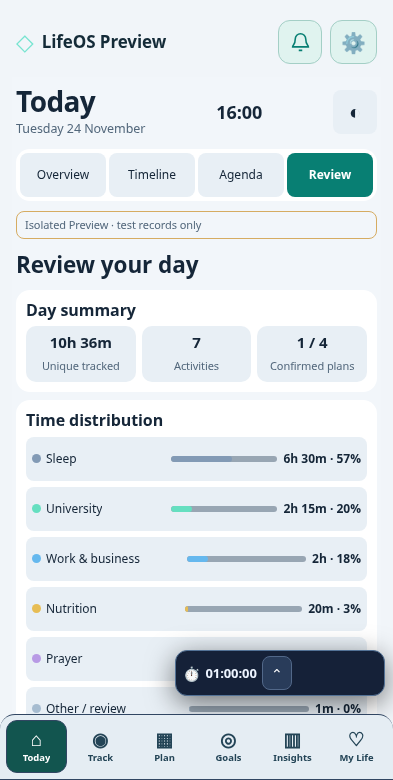
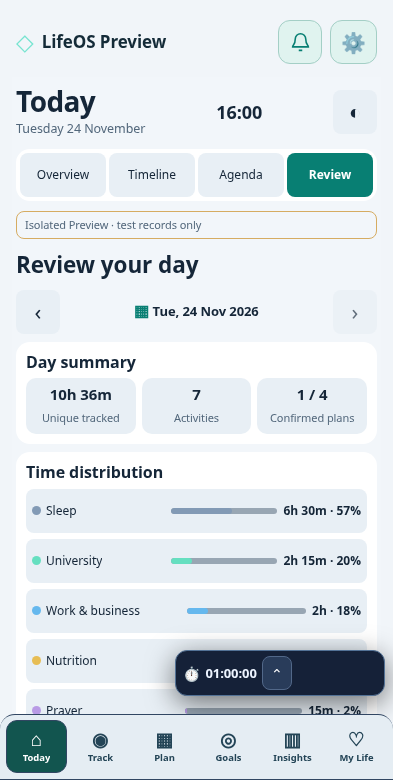
Add historical local-day review to Today

diff --git a/index.html b/index.html
@@ -5809,7 +5809,7 @@ function render(force=false){
  snapshot=d;note.hidden=location.hostname!=='lifeos-today-aplus-preview.onrender.com';if(!note.hidden){note.textContent='Isolated Preview · test records only';if(!d.recorded.length&&!d.active.length&&!d.plans.length&&!d.todos.length){const b=document.createElement('button');b.textContent='Load synthetic test records';b.onclick=()=>{if(confirm('Add synthetic records to this empty Preview?')&&window.lifeosSeedTodayPreview())render(true)};note.append(' ',b)}}root.dataset.apDataMode='live';
  if(timelineDayAt!==null&&timelineDayAt>=d.start)timelineDayAt=null;
  document.getElementById('apDate').textContent=new Date(d.at).toLocaleDateString('en-GB',{weekday:'long',day:'numeric',month:'long'});document.getElementById('apClock').textContent=clock(d.at);
- const raw=d.metrics, m=raw,p=pct(raw.unique,raw.dayLength),q=pct(raw.unique,raw.elapsed),elapsed=pct(raw.elapsed,raw.dayLength),active=d.active,first=active[0],future=d.plans.filter(x=>x.startAt>d.at&&x.status==='planned'&&!x.sessionId),next=future[0],tasks=d.todos.filter(x=>!x.done).sort((a,b)=>(b.priority==='high')-(a.priority==='high')||String(a.due||'9999').localeCompare(String(b.due||'9999'))),longest=d.gaps.reduce((a,b)=>!a||b.b-b.a>a.b-a.a?b:a,null),long=d.gaps.filter(g=>g.b-g.a>=45*60000),earlier=d.plans.filter(x=>x.endAt<=d.at&&x.endAt>d.start&&!['completed','finished','cancelled'].includes(x.status)&&!x.sessionId);
+ const raw=d.metrics, m=raw,p=pct(raw.unique,raw.dayLength),q=pct(raw.unique,raw.elapsed),elapsed=pct(raw.elapsed,raw.dayLength),active=d.active,first=active[0],future=d.plans.filter(x=>x.startAt>d.at&&x.status==='planned'&&!x.sessionId),next=future[0],tasks=d.todos.filter(x=>!x.done).sort((a,b)=>(b.priority==='high')-(a.priority==='high')||String(a.due||'9999').localeCompare(String(b.due||'9999'))),longest=d.gaps.reduce((a,b)=>!a||b.b-b.a>a.b-a.a?b:a,null),earlier=d.plans.filter(x=>x.endAt<=d.at&&x.endAt>d.start&&!['completed','finished','cancelled'].includes(x.status)&&!x.sessionId);
  const timelineSnapshot=timelineDayAt!==null?window.lifeosTodayAPlusSnapshot(Date.now(),timelineDayAt):d;
  const habits=window.lifeosSocialHabitBridge?.read?.()||{};
  const sig=JSON.stringify([d.recorded.map(x=>[x.id,x.name,x.category,x.status,x.a,Math.floor(x.b/60000)]),timelineDayAt!==null?timelineSnapshot.recorded.map(x=>[x.id,x.name,x.category,x.status,x.a,x.b]):null,d.plans,d.todos,habits.habitDefinitions,habits.habitChecks,active.map(x=>[x.id,x.status]),Math.floor(d.at/60000),period,timelineDayAt,part,day,selected,free]);
@@ -5822,8 +5822,7 @@ function render(force=false){
  const nowCard=card('Current activity',first?'<div class="ap-v1-live-row"><span class="ap-v1-live-icon" aria-hidden="true">◷</span><div><strong>'+esc(first.name)+'</strong><small>Started '+clock(first.startAt)+' · '+(first.status==='paused'?'Paused':'Running')+'</small></div><b class="ap-v1-live-clock">'+liveClock(first)+'</b></div>'+grid([action(first.status==='paused'?'Resume':'Pause',first.status==='paused'?'resume':'pause',first.id),action('Finish','finish',first.id),action('Focus','focus',first.id)])+nav(active.length>1?'All '+active.length+' timers':'View timer','tracking')+active.slice(1).map(a=>row(esc(a.name),liveClock(a))).join(''):item('Ready for your next activity?','No timer is running')+nav('Start activity','tracking'),'ap-now');
  const dayDate=new Date(d.start),boundary=hour=>hour===24?d.end:new Date(dayDate.getFullYear(),dayDate.getMonth(),dayDate.getDate(),hour).getTime();
  const parts=[[6,12],[12,18],[18,24],[0,6]],partRows=parts.map(([a,b])=>d.recorded.filter(x=>x.a<boundary(b)&&x.b>boundary(a)));
- const todayKey=new Date(d.at).toLocaleDateString('sv-SE');const task=t=>'<button type="button" class="ap-item ap-v250-item" data-ap-live-task="'+esc(t.id)+'"><strong>'+esc(t.name)+'</strong><small>'+esc([t.due&&String(t.due).slice(0,10)<todayKey?'OVERDUE':null,t.priority,t.due||'Flexible'].filter(Boolean).join(' · '))+'</small></button>';const detail=(label,kind,id,at)=>'<button type="button" class="ap-item ap-v250-item" data-ap-detail="'+kind+'" data-ap-key="'+esc(id)+'" data-ap-at="'+(at??'')+'">'+label+'</button>';const activity=x=>detail('<strong>'+esc(x.name)+'</strong><small>'+clock(x.a)+'–'+clock(x.b)+' · '+dur(x.b-x.a)+' · '+esc(x.category)+'</small>','record',x.id,x.a);const gapItem=g=>'<div class="ap-v250-gap">'+item(clock(g.a)+'–'+clock(g.b),dur(g.b-g.a)+' · Unknown')+action('Log activity','gap',g.a+':'+g.b)+'</div>';const pairs=[];for(let i=0;i<d.recorded.length;i++)for(let j=i+1;j<d.recorded.length;j++){const x=d.recorded[i],y=d.recorded[j],ms=Math.min(x.b,y.b)-Math.max(x.a,y.a);if(ms>=60000&&String(x.id)!==String(y.id))pairs.push({x,y,ms})}
- const intelligence=longest?long.length+' longer unlogged interval'+(long.length===1?'':'s')+' · Longest '+clock(longest.a)+'–'+clock(longest.b):'No unlogged intervals detected';
+ const todayKey=new Date(d.at).toLocaleDateString('sv-SE');const task=t=>'<button type="button" class="ap-item ap-v250-item" data-ap-live-task="'+esc(t.id)+'"><strong>'+esc(t.name)+'</strong><small>'+esc([t.due&&String(t.due).slice(0,10)<todayKey?'OVERDUE':null,t.priority,t.due||'Flexible'].filter(Boolean).join(' · '))+'</small></button>';const detail=(label,kind,id,at)=>'<button type="button" class="ap-item ap-v250-item" data-ap-detail="'+kind+'" data-ap-key="'+esc(id)+'" data-ap-at="'+(at??'')+'">'+label+'</button>';const activity=x=>detail('<strong>'+esc(x.name)+'</strong><small>'+clock(x.a)+'–'+clock(x.b)+' · '+dur(x.b-x.a)+' · '+esc(x.category)+'</small>','record',x.id,x.a);const gapItem=g=>'<div class="ap-v250-gap">'+item(clock(g.a)+'–'+clock(g.b),dur(g.b-g.a)+' · Unknown')+action('Log activity','gap',g.a+':'+g.b)+'</div>';
  const todayTasks=d.todos.filter(t=>String(t.due||'').slice(0,10)===todayKey),doneTasks=todayTasks.filter(t=>t.done).length,overdueTasks=tasks.filter(t=>t.due&&String(t.due).slice(0,10)<todayKey),otherOpenTasks=tasks.filter(t=>!t.due||String(t.due).slice(0,10)>todayKey);
  const todayPlans=d.plans.filter(x=>x.startAt<d.end&&x.endAt>d.start&&!['cancelled','skipped'].includes(x.status));
  const confirmedPlans=todayPlans.filter(x=>['completed','finished'].includes(x.status)||(x.sessionId&&d.recorded.some(s=>String(s.id)===String(x.sessionId)&&s.status==='finished'))).length;
@@ -5846,10 +5845,6 @@ function render(force=false){
  const dueHabits=(habits.habitDefinitions||[]).filter(h=>{const begin=h.startDate||(h.createdAt?new Date(h.createdAt).toLocaleDateString('sv-SE'):todayKey),diff=Math.round((todayNoon-atNoon(begin))/86400000),every=Number(h.everyDays)||1;return Number.isFinite(diff)&&diff>=0&&every>0&&diff%every===0});
  const habitRows=dueHabits.slice(0,3).map(h=>{const check=(habits.habitChecks||[]).find(c=>String(c.habitId)===String(h.id)&&c.date===todayKey),title=h.title||'Habit';return '<div class="ap-v1-agenda-task"><label><input type="checkbox" data-ap-live-habit="'+esc(h.id)+'" data-ap-habit-day="'+todayKey+'" data-ap-habit-revision="'+esc(JSON.stringify(check||null))+'" '+(check?.done?'checked':'')+' aria-label="'+(check?.done?'Undo completion of ':'Complete ')+esc(title)+'"><span class="'+(check?.done?'ap-v1-done':'')+'">'+esc(title)+'</span></label><button type="button" data-ap-live-quick="habits" aria-label="Review '+esc(title)+'">›</button></div>'}).join('');
  const agendaHabits=card('Habits today',row('Completed',dueHabits.filter(h=>habitChecks.has(String(h.id))).length+' / '+dueHabits.length)+(habitRows||item('No habits scheduled today',''))+'<p id="apHabitMessage" class="ap-v1-habit-message" role="status">'+esc(habitMessage)+'</p><button class="ap-link" type="button" data-ap-live-quick="habits">'+(dueHabits.length>3?'View all habits':'Open habits')+' →</button>');
- const activityCount=new Set(d.recorded.map(x=>String(x.id))).size;
- const reviewSummary=card('Day summary',grid([metric(dur(m.unique),'Unique tracked'),metric(String(activityCount),'Activities'),metric(todayPlans.length?confirmedPlans+' / '+todayPlans.length:'—','Confirmed plans')]));
- const reviewCategory=c=>{const color=colors[c.name]||'#a6bcd0',share=Math.round(c.durationMs/m.total*100),label=c.name+' · '+dur(c.durationMs)+' · '+share+'%';return '<button type="button" class="ap-v1-review-category" data-ap-live-reviewcat="'+esc(c.name)+'" aria-label="'+esc(label)+'"><span class="ap-v1-review-label" title="'+esc(c.name)+'"><i style="background:'+color+'"></i><span>'+esc(c.name)+'</span></span><span class="ap-v1-review-track" aria-hidden="true"><i style="width:'+(c.durationMs/m.total*100)+'%;background:'+color+'"></i></span><strong>'+dur(c.durationMs)+' · '+share+'%</strong></button>'};
- const reviewDistribution=card('Time distribution',(d.categories.slice(0,6).map(reviewCategory).join('')||item('No recorded activities',''))+(d.categories.length>6?'<details><summary>Show '+(d.categories.length-6)+' more categories</summary>'+d.categories.slice(6).map(reviewCategory).join('')+'</details>':''));
  set(0,'<div class="ap-v1-pair">'+card('Day progress','<div class="ap-v1-day-summary">'+dayRing+'<div>'+metric(dur(m.elapsed),'Elapsed')+metric(dur(m.remaining),'Remaining')+'</div></div>')+glance+'</div><div class="ap-v1-current">'+nowCard+'</div><div class="ap-v1-pair">'+progress+distribution+'</div><div class="ap-v1-pair">'+lifeAreas+dailyIntel+'</div>'+quick+card('Your day, in four parts',grid(['Morning','Afternoon','Evening','Night'].map((n,i)=>'<button data-ap-live-part="'+i+'" class="'+(i===part?'ap-selected':'')+'"><span class="ap-part-icon">'+['☀','◐','☾','✦'][i]+'</span><strong>'+partRows[i].length+'</strong><small>'+n+'</small></button>'),'ap-four')+ (partRows[part].map(activity).join('')||item('No recorded activities','')))+card('Next on your agenda',future.slice(0,2).map(x=>row(esc(x.name),clock(x.startAt))).join('')||item('No upcoming commitments',''))+card('Your priorities',(tasks[0]?task(tasks[0]):item('No open tasks',''))+link('View tasks',2)));
  {
  const d=timelineSnapshot,m=d.metrics,p=pct(m.unique,m.dayLength),q=pct(m.unique,m.elapsed),active=d.active,first=active[0],next=timelineDayAt!==null?null:future[0],longest=d.gaps.reduce((a,b)=>!a||b.b-b.a>a.b-a.a?b:a,null);
@@ -5891,11 +5886,27 @@ function render(force=false){
  for(const x of list){if(free&&day===0&&x.startAt>cursor)journeyHtml+=journey('',dur(x.startAt-cursor)+' '+'unscheduled time',clock(cursor)+'–'+clock(x.startAt),true);journeyHtml+='<div class="ap-journey"><small>'+clock(x.startAt)+'</small>'+detail('<strong>'+esc(x.name)+'</strong><small>'+clock(x.startAt)+'–'+clock(x.endAt)+(x.startAt<cursor?' · Overlapping commitment':'')+'</small>','plan',x.id,x.startAt)+'</div>';cursor=Math.max(cursor,x.endAt)}
  if(free&&day===0&&cursor<d.end)journeyHtml+=journey('',dur(d.end-cursor)+' '+'unscheduled time',clock(cursor)+'–00:00',true);
  set(2,card('<span class="ap-kicker">NEXT UP</span>',next?'<h2>'+esc(next.name)+'</h2><small>'+clock(next.startAt)+'–'+clock(next.endAt)+' · In '+dur(next.startAt-d.at)+'</small>'+grid([action('Start now','start-plan',next.id),action('Remind me','reminder',next.id)],'ap-two'):item('No upcoming commitments',''),'ap-now')+agendaTasks+agendaHabits+card('Your upcoming journey','<label><input type="checkbox" data-ap-live-free '+(free?'checked':'')+'> Show unscheduled windows</label>'+grid(['Today','Tomorrow','Upcoming'].map((x,i)=>'<button data-ap-live-day="'+i+'" class="'+(day===i?'ap-selected':'')+'" aria-pressed="'+(day===i)+'">'+x+'</button>'))+(journeyHtml||item('No commitments',''))+nav('Open full calendar','schedule'))+card('Needs your attention',(overdueTasks[0]?task(overdueTasks[0]):item('No overdue tasks',''))+'<details><summary>Show '+Math.max(0,overdueTasks.length-1)+' more overdue tasks</summary>'+overdueTasks.slice(1).map(task).join('')+'</details><details><summary>Show '+otherOpenTasks.length+' other open tasks</summary>'+otherOpenTasks.map(task).join('')+'</details><details><summary>Earlier commitments · '+earlier.length+'</summary>'+earlier.map(x=>detail('<strong>'+esc(x.name)+'</strong><small>Unverified · '+clock(x.startAt)+'</small>','plan',x.id,x.startAt)).join('')+'</details>'));
- set(3,'<h2>Review your day</h2>'+reviewSummary+reviewDistribution+card('Daily intelligence','<small>'+intelligence+'</small>'+(longest?action('Log longest interval','gap',longest.a+':'+longest.b):''),'ap-now')+card('Recording completeness','<div class="ap-row"><svg style="width:124px" viewBox="0 0 130 130"><circle cx="65" cy="65" r="49" fill="none" stroke="#d6ac62" stroke-width="12"/><circle cx="65" cy="65" r="49" fill="none" stroke="var(--ap-accent)" stroke-width="12" pathLength="100" stroke-dasharray="'+q+' '+(100-q)+'" transform="rotate(-90 65 65)"/><text x="65" y="65" text-anchor="middle" font-size="29" fill="currentColor">'+q+'%</text><text x="65" y="82" text-anchor="middle" font-size="10" fill="currentColor">Elapsed day</text></svg><div class="ap-review-metrics">'+metric(dur(m.unique),'Unique tracked')+metric(dur(m.unlogged),'Unlogged')+'</div></div>'+row('Full local day recorded',p+'%')+'<div class="ap-bar"><i style="width:'+p+'%"></i></div>')+card('Unlogged intervals',long.map(gapItem).join('')+'<details><summary>Show '+(d.gaps.length-long.length)+' shorter intervals</summary>'+d.gaps.filter(g=>g.b-g.a<45*60000).map(gapItem).join('')+'</details><small>Unlogged time is unknown, not automatically wasted.</small>')+card('Needs your attention',item('Overlapping activities',dur(m.overlap)+' additional recorded time')+pairs.slice(0,1).map(z=>'<div class="ap-v250-overlap"><small>'+dur(z.ms)+' concurrent</small>'+activity(z.x)+activity(z.y)+'</div>').join('')+(pairs.length>1?'<details><summary>Show '+(pairs.length-1)+' more overlaps</summary>'+pairs.slice(1).map(z=>'<div class="ap-v250-overlap"><small>'+dur(z.ms)+' concurrent</small>'+activity(z.x)+activity(z.y)+'</div>').join('')+'</details>':'')+link('Review concurrent sessions',1)+item('Earlier commitments',earlier.length+' potentially unconfirmed')+link('Review commitments',2))+card('Improve tomorrow',item('Recording opportunity',longest?dur(m.unlogged)+' unclassified across '+d.gaps.length+' intervals; '+long.length+' at least 45 minutes.':'No missing interval detected.')+(pairs.length?item('Concurrent activity insight',esc(pairs[0].x.name)+' and '+esc(pairs[0].y.name)+' overlapped for '+dur(pairs[0].ms)+'. Confirm whether intentional.'):'')+item('Planning opportunity',earlier.length?earlier.length+' earlier commitments need confirmation.':'Insufficient confirmed plan-to-actual matches for a scheduling assessment.'))+card('Explore further','<div class="ap-v250-shortcuts">'+nav('Activity averages','analytics')+nav('Duration limits','analytics')+nav('Plan vs. reality','analytics')+nav('Activity classification','analytics')+'</div>'));
+ {
+ const d=timelineSnapshot,m=d.metrics,p=pct(m.unique,m.dayLength),q=pct(m.unique,m.elapsed);
+ const longest=d.gaps.reduce((a,b)=>!a||b.b-b.a>a.b-a.a?b:a,null),long=d.gaps.filter(g=>g.b-g.a>=45*60000);
+ const earlier=d.plans.filter(x=>x.endAt<=d.at&&x.endAt>d.start&&!['completed','finished','cancelled'].includes(x.status)&&!x.sessionId);
+ const todayPlans=d.plans.filter(x=>x.startAt<d.end&&x.endAt>d.start&&!['cancelled','skipped'].includes(x.status));
+ const confirmedPlans=todayPlans.filter(x=>['completed','finished'].includes(x.status)||(x.sessionId&&d.recorded.some(s=>String(s.id)===String(x.sessionId)&&s.status==='finished'))).length;
+ const pairs=[];for(let i=0;i<d.recorded.length;i++)for(let j=i+1;j<d.recorded.length;j++){const x=d.recorded[i],y=d.recorded[j],ms=Math.min(x.b,y.b)-Math.max(x.a,y.a);if(ms>=60000&&String(x.id)!==String(y.id))pairs.push({x,y,ms})}
+ const intelligence=longest?long.length+' longer unlogged interval'+(long.length===1?'':'s')+' · Longest '+clock(longest.a)+'–'+clock(longest.b):'No unlogged intervals detected';
+ const activityCount=new Set(d.recorded.map(x=>String(x.id))).size;
+ const reviewSummary=card('Day summary',grid([metric(dur(m.unique),'Unique tracked'),metric(String(activityCount),'Activities'),metric(todayPlans.length?confirmedPlans+' / '+todayPlans.length:'—','Confirmed plans')]));
+ const reviewCategory=c=>{const color=colors[c.name]||'#a6bcd0',share=Math.round(c.durationMs/m.total*100),label=c.name+' · '+dur(c.durationMs)+' · '+share+'%';return '<button type="button" class="ap-v1-review-category" data-ap-live-reviewcat="'+esc(c.name)+'" aria-label="'+esc(label)+'"><span class="ap-v1-review-label" title="'+esc(c.name)+'"><i style="background:'+color+'"></i><span>'+esc(c.name)+'</span></span><span class="ap-v1-review-track" aria-hidden="true"><i style="width:'+(c.durationMs/m.total*100)+'%;background:'+color+'"></i></span><strong>'+dur(c.durationMs)+' · '+share+'%</strong></button>'};
+ const reviewDistribution=card('Time distribution',(d.categories.slice(0,6).map(reviewCategory).join('')||item('No recorded activities',''))+(d.categories.length>6?'<details><summary>Show '+(d.categories.length-6)+' more categories</summary>'+d.categories.slice(6).map(reviewCategory).join('')+'</details>':''));
+ const reviewCommitment=x=>detail('<strong>'+esc(x.name)+'</strong><small>Unverified · '+clock(x.startAt)+'–'+clock(x.endAt)+'</small>','plan',x.id,x.startAt);
+ const reviewCommitments=earlier.slice(0,2).map(reviewCommitment).join('')+(earlier.length>2?'<details><summary>Show '+(earlier.length-2)+' more commitments</summary>'+earlier.slice(2).map(reviewCommitment).join('')+'</details>':'');
+ const reviewDate='<div class="ap-v1-review-date"><button type="button" data-ap-review-shift="-1" aria-label="Previous review day">‹</button><div class="ap-v1-date-select"><strong aria-hidden="true"><span class="ap-v1-date-icon">▦</span> '+esc(new Date(d.start).toLocaleDateString('en-GB',{weekday:'short',day:'numeric',month:'short',year:'numeric'}))+'</strong><input type="date" data-ap-review-date aria-label="Choose review date" value="'+new Date(d.start).toLocaleDateString('sv-SE')+'" max="'+todayKey+'"></div><button type="button" data-ap-review-shift="1" aria-label="Next review day" '+(timelineDayAt===null?'disabled':'')+'>›</button></div>';
+ set(3,'<h2>Review your day</h2>'+reviewDate+reviewSummary+reviewDistribution+card('Daily intelligence','<small>'+intelligence+'</small>'+(longest?action('Log longest interval','gap',longest.a+':'+longest.b):''),'ap-now')+card('Recording completeness','<div class="ap-row"><svg style="width:124px" viewBox="0 0 130 130"><circle cx="65" cy="65" r="49" fill="none" stroke="#d6ac62" stroke-width="12"/><circle cx="65" cy="65" r="49" fill="none" stroke="var(--ap-accent)" stroke-width="12" pathLength="100" stroke-dasharray="'+q+' '+(100-q)+'" transform="rotate(-90 65 65)"/><text x="65" y="65" text-anchor="middle" font-size="29" fill="currentColor">'+q+'%</text><text x="65" y="82" text-anchor="middle" font-size="10" fill="currentColor">Elapsed day</text></svg><div class="ap-review-metrics">'+metric(dur(m.unique),'Unique tracked')+metric(dur(m.unlogged),'Unlogged')+'</div></div>'+row('Full local day recorded',p+'%')+'<div class="ap-bar"><i style="width:'+p+'%"></i></div>')+card('Unlogged intervals',long.map(gapItem).join('')+'<details><summary>Show '+(d.gaps.length-long.length)+' shorter intervals</summary>'+d.gaps.filter(g=>g.b-g.a<45*60000).map(gapItem).join('')+'</details><small>Unlogged time is unknown, not automatically wasted.</small>')+card('Needs your attention',item('Overlapping activities',dur(m.overlap)+' additional recorded time')+pairs.slice(0,1).map(z=>'<div class="ap-v250-overlap"><small>'+dur(z.ms)+' concurrent</small>'+activity(z.x)+activity(z.y)+'</div>').join('')+(pairs.length>1?'<details><summary>Show '+(pairs.length-1)+' more overlaps</summary>'+pairs.slice(1).map(z=>'<div class="ap-v250-overlap"><small>'+dur(z.ms)+' concurrent</small>'+activity(z.x)+activity(z.y)+'</div>').join('')+'</details>':'')+link('Review concurrent sessions',1)+item('Earlier commitments',earlier.length+' potentially unconfirmed')+reviewCommitments+(timelineDayAt===null?link('Review commitments',2):nav('Open Plan','schedule')))+card(timelineDayAt===null?'Improve tomorrow':'Review insights',item('Recording opportunity',longest?dur(m.unlogged)+' unclassified across '+d.gaps.length+' intervals; '+long.length+' at least 45 minutes.':'No missing interval detected.')+(pairs.length?item('Concurrent activity insight',esc(pairs[0].x.name)+' and '+esc(pairs[0].y.name)+' overlapped for '+dur(pairs[0].ms)+'. Confirm whether intentional.'):'')+item('Planning opportunity',earlier.length?earlier.length+' earlier commitments need confirmation.':'Insufficient confirmed plan-to-actual matches for a scheduling assessment.'))+card('Explore further','<div class="ap-v250-shortcuts">'+nav('Activity averages','analytics')+nav('Duration limits','analytics')+nav('Plan vs. reality','analytics')+nav('Activity classification','analytics')+'</div>'));
+ }
 }
-root.addEventListener('click',e=>{const detail=e.target.closest('[data-ap-detail]');if(detail){window.lifeosTrackOpenTodayItem?.(detail.dataset.apDetail,detail.dataset.apKey,Number(detail.dataset.apAt));return}const b=e.target.closest('button');if(!b)return;const x=b.dataset;if(x.apLiveReviewcat){selected=x.apLiveReviewcat;document.getElementById('apTab1')?.click();render(true);return}if(x.apLiveTask){openTask(x.apLiveTask);return}if(x.apLiveQuick){openQuick(x.apLiveQuick);return}if(x.apLiveAction){if(x.apLiveAction==='unknown')return;if(x.apLiveAction==='focus'){document.querySelector('#lifeosNavigation [data-view="tracking"]')?.click();setTimeout(()=>{const b=document.querySelector('#loTrackConceptA [data-ca-sheet="focus"]');if(b)b.click();else alert('Open Focus Mode from Track Live.');},150);return}if(x.apLiveAction==='finish'&&!confirm('Finish this activity?'))return;if(x.apLiveAction==='start-plan'&&!confirm('Start this planned activity now?'))return;const ok=window.lifeosTodayAPlusAction(x.apLiveAction,x.apLiveId);if(ok===null)return;if(!ok){if(x.apLiveAction==='gap'){let message=b.parentElement.querySelector('.ap-v250-gap-error');if(!message){message=document.createElement('small');message.className='ap-v250-gap-error';message.setAttribute('role','status');b.parentElement.append(message)}message.textContent='This interval changed. Select a remaining gap and try again.';return}alert('Action not saved. Existing records retained.');return}if(x.apLiveAction==='reminder')alert('Scheduled reminder enabled. Delivery depends on device permissions.');render(true);return}if(x.apLiveNav){document.querySelector('#lifeosNavigation [data-view="'+x.apLiveNav+'"]')?.click();return}if(x.apLivePart!==undefined)part=Number(x.apLivePart);else if(x.apLivePeriod!==undefined){if(x.apLivePeriod==='now'){timelineDayAt=null;period=null}else period=Number(x.apLivePeriod)}else if(x.apLiveDate!==undefined){const date=new Date(timelineDayAt??snapshot.start);date.setDate(date.getDate()+Number(x.apLiveDate));timelineDayAt=date.getTime()>=snapshot.start?null:date.getTime();period=null}else if(x.apLiveDay!==undefined)day=Number(x.apLiveDay);else if(x.apLiveCat!==undefined)selected=selected===x.apLiveCat?'':x.apLiveCat;else return;render(true)});
+root.addEventListener('click',e=>{const detail=e.target.closest('[data-ap-detail]');if(detail){window.lifeosTrackOpenTodayItem?.(detail.dataset.apDetail,detail.dataset.apKey,Number(detail.dataset.apAt));return}const b=e.target.closest('button');if(!b)return;const x=b.dataset;if(x.apReviewShift!==undefined){const date=new Date(timelineDayAt??snapshot.start);date.setDate(date.getDate()+Number(x.apReviewShift));timelineDayAt=date.getTime()>=snapshot.start?null:date.getTime();period=null;render(true);return}if(x.apLiveReviewcat){selected=x.apLiveReviewcat;document.getElementById('apTab1')?.click();render(true);return}if(x.apLiveTask){openTask(x.apLiveTask);return}if(x.apLiveQuick){openQuick(x.apLiveQuick);return}if(x.apLiveAction){if(x.apLiveAction==='unknown')return;if(x.apLiveAction==='focus'){document.querySelector('#lifeosNavigation [data-view="tracking"]')?.click();setTimeout(()=>{const b=document.querySelector('#loTrackConceptA [data-ca-sheet="focus"]');if(b)b.click();else alert('Open Focus Mode from Track Live.');},150);return}if(x.apLiveAction==='finish'&&!confirm('Finish this activity?'))return;if(x.apLiveAction==='start-plan'&&!confirm('Start this planned activity now?'))return;const ok=window.lifeosTodayAPlusAction(x.apLiveAction,x.apLiveId);if(ok===null)return;if(!ok){if(x.apLiveAction==='gap'){let message=b.parentElement.querySelector('.ap-v250-gap-error');if(!message){message=document.createElement('small');message.className='ap-v250-gap-error';message.setAttribute('role','status');b.parentElement.append(message)}message.textContent='This interval changed. Select a remaining gap and try again.';return}alert('Action not saved. Existing records retained.');return}if(x.apLiveAction==='reminder')alert('Scheduled reminder enabled. Delivery depends on device permissions.');render(true);return}if(x.apLiveNav){document.querySelector('#lifeosNavigation [data-view="'+x.apLiveNav+'"]')?.click();return}if(x.apLivePart!==undefined)part=Number(x.apLivePart);else if(x.apLivePeriod!==undefined){if(x.apLivePeriod==='now'){timelineDayAt=null;period=null}else period=Number(x.apLivePeriod)}else if(x.apLiveDate!==undefined){const date=new Date(timelineDayAt??snapshot.start);date.setDate(date.getDate()+Number(x.apLiveDate));timelineDayAt=date.getTime()>=snapshot.start?null:date.getTime();period=null}else if(x.apLiveDay!==undefined)day=Number(x.apLiveDay);else if(x.apLiveCat!==undefined)selected=selected===x.apLiveCat?'':x.apLiveCat;else return;render(true)});
 root.addEventListener('keydown',e=>{const target=e.target.closest('svg [data-ap-detail]');if(target&&(e.key==='Enter'||e.key===' ')){e.preventDefault();target.dispatchEvent(new MouseEvent('click',{bubbles:true}))}});
-root.addEventListener('change',e=>{if(e.target.hasAttribute('data-ap-timeline-date')){const value=e.target.value,parts=/^(\d{4})-(\d{2})-(\d{2})$/.exec(value);if(parts){const date=new Date(Number(parts[1]),Number(parts[2])-1,Number(parts[3]));if(date.getFullYear()===Number(parts[1])&&date.getMonth()===Number(parts[2])-1&&date.getDate()===Number(parts[3])&&date.getTime()<=snapshot.start){timelineDayAt=date.getTime()===snapshot.start?null:date.getTime();period=null;render(true);return}}e.target.value=new Date(timelineDayAt??snapshot.start).toLocaleDateString('sv-SE');return}if(e.target.hasAttribute('data-ap-live-free')){free=e.target.checked;render(true);return}if(e.target.hasAttribute('data-ap-live-habit')){const input=e.target;let result;try{result=window.lifeosHabitToggleToday?.(input.dataset.apLiveHabit,input.dataset.apHabitDay,input.dataset.apHabitRevision)}catch{result=null}if(result?.ok){habitMessage='';render(true);return}const current=(window.lifeosSocialHabitBridge?.read?.()?.habitChecks||[]).find(c=>String(c.habitId)===String(input.dataset.apLiveHabit)&&c.date===input.dataset.apHabitDay);input.checked=!!current?.done;input.dataset.apHabitRevision=JSON.stringify(current||null);const message=document.getElementById('apHabitMessage');habitMessage=result?.error||'Habit check is unavailable. No changes were saved.';if(message)message.textContent=habitMessage;return}if(e.target.hasAttribute('data-ap-live-todo')){const input=[...document.querySelectorAll('#todoList [data-todo-act="toggle"]')].find(n=>String(n.dataset.todoId)===String(e.target.dataset.apLiveTodo));if(input){input.checked=e.target.checked;input.dispatchEvent(new Event('change',{bubbles:true}))}render(true)}});
+root.addEventListener('change',e=>{if(e.target.hasAttribute('data-ap-timeline-date')||e.target.hasAttribute('data-ap-review-date')){const value=e.target.value,parts=/^(\d{4})-(\d{2})-(\d{2})$/.exec(value);if(parts){const date=new Date(Number(parts[1]),Number(parts[2])-1,Number(parts[3]));if(date.getFullYear()===Number(parts[1])&&date.getMonth()===Number(parts[2])-1&&date.getDate()===Number(parts[3])&&date.getTime()<=snapshot.start){timelineDayAt=date.getTime()===snapshot.start?null:date.getTime();period=null;render(true);return}}e.target.value=new Date(timelineDayAt??snapshot.start).toLocaleDateString('sv-SE');return}if(e.target.hasAttribute('data-ap-live-free')){free=e.target.checked;render(true);return}if(e.target.hasAttribute('data-ap-live-habit')){const input=e.target;let result;try{result=window.lifeosHabitToggleToday?.(input.dataset.apLiveHabit,input.dataset.apHabitDay,input.dataset.apHabitRevision)}catch{result=null}if(result?.ok){habitMessage='';render(true);return}const current=(window.lifeosSocialHabitBridge?.read?.()?.habitChecks||[]).find(c=>String(c.habitId)===String(input.dataset.apLiveHabit)&&c.date===input.dataset.apHabitDay);input.checked=!!current?.done;input.dataset.apHabitRevision=JSON.stringify(current||null);const message=document.getElementById('apHabitMessage');habitMessage=result?.error||'Habit check is unavailable. No changes were saved.';if(message)message.textContent=habitMessage;return}if(e.target.hasAttribute('data-ap-live-todo')){const input=[...document.querySelectorAll('#todoList [data-todo-act="toggle"]')].find(n=>String(n.dataset.todoId)===String(e.target.dataset.apLiveTodo));if(input){input.checked=e.target.checked;input.dispatchEvent(new Event('change',{bubbles:true}))}render(true)}});
 document.querySelector('#lifeosNavigation [data-view="dashboard"]')?.addEventListener('click',()=>setTimeout(()=>render(true),100));
 setInterval(()=>render(),1000);render();
 })();
@@ -5950,13 +5961,13 @@ body.ap-today #todayAPlus .ap-v1-timeline-now h3{font-size:11px;flex:none}
 body.ap-today #todayAPlus .ap-v1-timeline-now .ap-v250-item{flex:1 1 125px;min-height:44px;padding:5px 8px;gap:1px}
 body.ap-today #todayAPlus .ap-v1-timeline-now .ap-v250-item small{font-size:11px}
 body.ap-today #todayAPlus .ap-v1-timeline-now>.ap-row{width:100%;font-size:12px}
-body.ap-today #todayAPlus .ap-v1-date{display:grid;grid-template-columns:44px minmax(0,1fr) 44px;align-items:center;gap:5px;text-align:center}
-body.ap-today #todayAPlus .ap-v1-date strong{font-size:13px;white-space:nowrap}
+body.ap-today #todayAPlus :is(.ap-v1-date,.ap-v1-review-date){display:grid;grid-template-columns:44px minmax(0,1fr) 44px;align-items:center;gap:5px;text-align:center}
+body.ap-today #todayAPlus :is(.ap-v1-date,.ap-v1-review-date) strong{font-size:13px;white-space:nowrap}
 body.ap-today #todayAPlus .ap-v1-date-select{position:relative;display:grid;place-items:center;min-width:0;min-height:44px}
 body.ap-today #todayAPlus .ap-v1-date-icon{display:inline-block;font-size:16px;line-height:1;color:var(--ap-accent)}
 body.ap-today #todayAPlus .ap-v1-date-select input{position:absolute;inset:0;width:100%;height:44px;opacity:0;cursor:pointer}
 body.ap-today #todayAPlus .ap-v1-date-select:focus-within{outline:2px solid var(--ap-accent);outline-offset:2px;border-radius:8px}
-body.ap-today #todayAPlus .ap-v1-date button{font-size:22px}
+body.ap-today #todayAPlus :is(.ap-v1-date,.ap-v1-review-date) button{font-size:22px}
 body.ap-today #todayAPlus .ap-v1-period{grid-template-columns:repeat(5,minmax(0,1fr))}
 body.ap-today #todayAPlus .ap-v1-period button{min-height:44px;font-size:11px;padding:3px 0}
 body.ap-today #todayAPlus .ap-v1-agenda-task{display:flex;align-items:center;gap:4px;border-bottom:1px solid #52657a44}

diff --git a/docs/design/today/COMPARISON.md b/docs/design/today/COMPARISON.md
@@ -7,7 +7,7 @@ The supplied design screenshots are targets, with illustrative numbers. Current 
 | Overview | [Individual overview](reference/Overview.png) | [Viewport](current/release-overview.png) · [Full page](current/release-overview-full.png) · [Light](current/release-overview-light.png) | Paired day progress and glance cards, live controls, plan progress, distribution and quick actions are present. Life-area rows use saved activity, habit and routine evidence. The reference uses more compact controls and more iconography; scores with no defined evidence source are not invented. Extra bottom clearance is provided for the floating timer, which can still cover content while scrolling. |
 | Timeline | [Individual timeline](reference/Timeline.png) | [Viewport](current/release-timeline.png) · [Full page](current/release-timeline-full.png) · [Previous day](current/release-timeline-previous-day.png) | Category colors, proportional lanes, six-hour selector, accessible short-item list and selected-period accounting are present. Planned blocks use an outlined treatment; a browser date input and previous/next-day controls navigate recorded local days, and Now returns to the current day. The tighter reference layout and native Android date-picker behavior remain to be checked. |
 | Agenda | [Section board](reference/Full_section_board.png) | [Viewport](current/release-agenda.png) · [Full page](current/release-agenda-full.png) · Habit checklist [dark](current/release-agenda-habits-dark.png) and [light](current/release-agenda-habits-light.png) | Next commitment, task completion, upcoming journey and unverified commitments use real records. Scheduled habits can be checked and reviewed inline or opened in My Life; separate routine logs still use My Life. The board's integrated routine checklist and compact layout are not yet matched. |
-| Review | [Section board](reference/Full_section_board.png) | [Viewport](current/release-review.png) · [Light](current/release-review-light.png) · [Full page](current/release-review-full.png) | Summary, compact category bars and drill-down, unlogged review and concurrent activity details are present. Daily intelligence appears earlier. The page remains longer than the reference, and native presentation and complete light-theme contrast still need verification. |
+| Review | [Section board](reference/Full_section_board.png) | [Viewport](current/release-review.png) · [Previous day](current/release-review-previous-day.png) · [Light](current/release-review-light.png) · [Full page](current/release-review-full.png) | Summary, compact category bars and drill-down, unlogged review and concurrent activity details are present. Review and Timeline share local-day navigation; past commitments can be inspected and past gaps logged. Daily intelligence appears earlier. The page remains longer than the reference, and native date-picker, presentation and complete light-theme contrast still need verification. |
 | Activity details | [Supporting board](reference/Supporting_screens.png) | [Current details](current/activity-details.png) | Existing V250 detail and correction controls are retained; compare its remaining differences during focused device review. |
 | Gap entry | [Supporting board](reference/Supporting_screens.png) | [Current gap form](current/gap-entry.png) | Existing partial/full gap workflow and validation are retained; this capture predates the V1 layout changes. |
 

diff --git a/docs/TESTING.md b/docs/TESTING.md
@@ -13,6 +13,7 @@ node tests/today-v250-precision.cjs
 node tests/today-v250-volume.cjs
 TODAY_V1_CAPTURE=1 node tests/today-release-v1.cjs
 node tests/today-review-categories.cjs
+TODAY_REVIEW_HISTORY_CAPTURE=1 node tests/today-review-history.cjs
 TODAY_AGENDA_CAPTURE=1 node tests/today-agenda-habits.cjs
 node tests/today-history-date.cjs
 TRACK_PERIOD_CAPTURE=1 node tests/track-calendar-periods.cjs
@@ -55,6 +56,8 @@ The Today V1 fixture checks record-based overview values and navigation into exi
 The Today Agenda habit fixture checks scheduled and unscheduled habits, completion and undo from Today and My Life, retention of linked evidence, opt-in automatic-check dismissal, stale and duplicate checks, failed checkpoint writes, reload persistence, light-mode controls and reduced browser heights. It uses only synthetic, offline records. `TODAY_AGENDA_CAPTURE=1` saves dark and light browser screenshots; it does not verify Android input or system insets.
 
 The synthetic Review category fixture checks an empty day and a ten-category day, including disclosure labels, raw-duration bar widths and individual category drill-down. The fixture does not connect to a real Preview account.
+
+The historical Review fixture checks local-day date navigation and future-date rejection, previous-day totals and overlaps, unverified commitment details, partial gap logging and persistence, category drill-down to the same Timeline day, a midnight transition, 23- and 25-hour days and reduced browser viewports. `TODAY_REVIEW_HISTORY_CAPTURE=1` saves a synthetic previous-day screenshot.
 
 The synthetic Goals reading fixture checks that the daily chart uses the same goal evidence rules as weekly totals, does not infer a daily target, excludes assumed and future-dated entries, preserves date-only logs entered today, deduplicates linked sessions, and handles pauses, overnight sessions and a daylight-saving change. It also checks the affected light-mode heading contrast. Capture mode writes browser screenshots; it does not establish completion or approval of the Goals redesign.
 

diff --git a/docs/DEVELOPMENT_STATUS.md b/docs/DEVELOPMENT_STATUS.md
@@ -12,6 +12,8 @@ Today Agenda now offers an inline checklist for scheduled habits using the exist
 
 Today Review now displays up to six category bars as compact accessible controls and moves Daily intelligence above the longer accounting details. Categories use raw recorded durations; the gap and concurrent-activity actions remain available. Browser screenshots and remaining visual differences are recorded in `docs/design/today/COMPARISON.md`.
 
+Review now shares the selected local day with Timeline, offers previous/next and date-picker navigation, and recalculates its summary, categories, overlaps, unverified commitments and gaps for that day. Historical gap logging uses the existing guarded Track workflow. Synthetic tests cover day boundaries, persistence and daylight-saving transitions; Android date-picker and device behavior remain unverified.
+
 A targeted Goals data correction removes the fixed 90-minute reading threshold from the daily chart. It shows recorded minutes using the same evidence rules as the weekly goal, without deriving a daily target from a weekly one; quantity goals do not display a duration chart. The shared goal calculation excludes future-dated finished timers and future-day logs. Goals still requires its V1 visual and functional redevelopment and user/device verification.
 
 Track work is also in progress: Live now exposes compact session and daily-duration summaries, quick starts and concurrent-session controls using the existing tracking engine, including a visible two-step finish confirmation. History offers navigable local day/week/month/year/all-time and custom periods, data-based category charts and summaries, filtering and sorting while retaining the existing hierarchy and record details; Review uses local calendar-week and calendar-month filters. Synthetic browser evidence and remaining differences are documented in `docs/design/track/README.md` and `docs/KNOWN_ISSUES.md`; Track is not yet release-ready.
